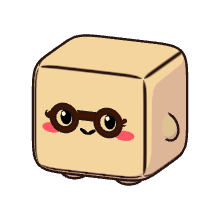
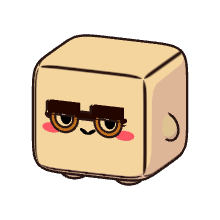
Fix clean-pile mission, sticky after shrink, duplicate specs and Firebase gating
- "Pile N Kinu without a tumble" only counted runs that ended with zero
  tumbles, but runs only end by tumbling out, so it could never progress.
  Runs now record the pile reached before their first tumble (or Toss
  miss), which the mission and the "biggest pile without a tumble" stat use.
- Shrinking a glued Sticky Kinu released it but left it marked stuck, which
  blocked it from ever bonding again. Releasing now breaks the old joint so
  it re-glues to whatever it lands on.
- Taster's Specs used the same round frame as Round Specs. It now has its
  own browline frame; thumbnail re-baked.
- Firebase only ran in the separate "production" preset, so ordinary
  release exports had it off. It now runs in every iOS release export and
  stays off in debug exports. build_ios.sh builds release by default and
  takes `debug` for a debug export.

Claude-Session: https://claude.ai/code/session_01S29Nf8zUdsxYXdRLwKcPCn

Changed region(s): [[0.1909, 0.4364, 0.5727, 0.6273]]

diff --git a/docs/firebase-builds.md b/docs/firebase-builds.md
@@ -1,17 +1,15 @@
 # Firebase in iOS builds
 
-Firebase Analytics and Crashlytics are enabled only in the **iOS Production** export preset.
-The ordinary **iOS** preset is for local and device testing: it excludes the
-Firebase GDExtension entirely, so its native framework cannot initialize at
-startup. It also does not bundle `GoogleService-Info.plist`.
-`scripts/systems/analytics.gd` never calls the Firebase bridge in this preset.
-Editor runs and Godot tests also leave Firebase inactive.
+Firebase Analytics and Crashlytics run in every **release** iOS export and never in a **debug**
+export. `scripts/systems/analytics.gd` only configures the Firebase bridge when
+`OS.is_debug_build()` is false, and the Firebase export plugin only bundles
+`GoogleService-Info.plist` into release exports. Editor runs and Godot tests also leave Firebase
+inactive.
 
-Build a test app with `zsh ios/native_cloud/build_ios.sh`. Build a production app with
-`zsh ios/native_cloud/build_ios.sh production`. The production argument selects the preset
-with the `production` feature and includes the Firebase configuration. Both use Xcode's
-Release compiler configuration; that setting alone does not enable Firebase.
+Build a release app with `zsh ios/native_cloud/build_ios.sh`. Build a debug app with
+`zsh ios/native_cloud/build_ios.sh debug`. Both use the **iOS** preset; a debug export still
+links the Firebase framework but never configures it. Exporting from the editor follows the same
+rule: "Export With Debug" leaves Firebase off, a release export turns it on.
 
-Use the production command only for a distribution build. If a test build was installed
-over a production build, launch the new app after installing it to replace the previous
-Firebase session.
+If a debug build was installed over a release build, launch the new app after installing it to
+replace the previous Firebase session.
